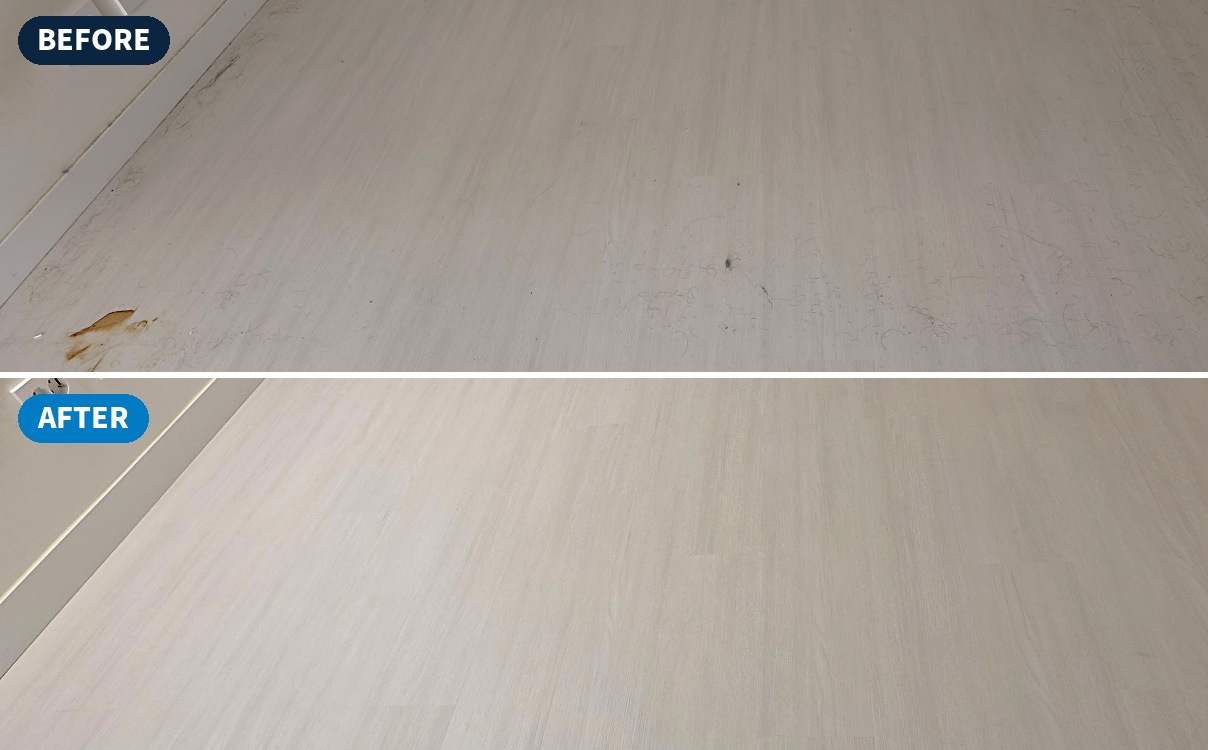
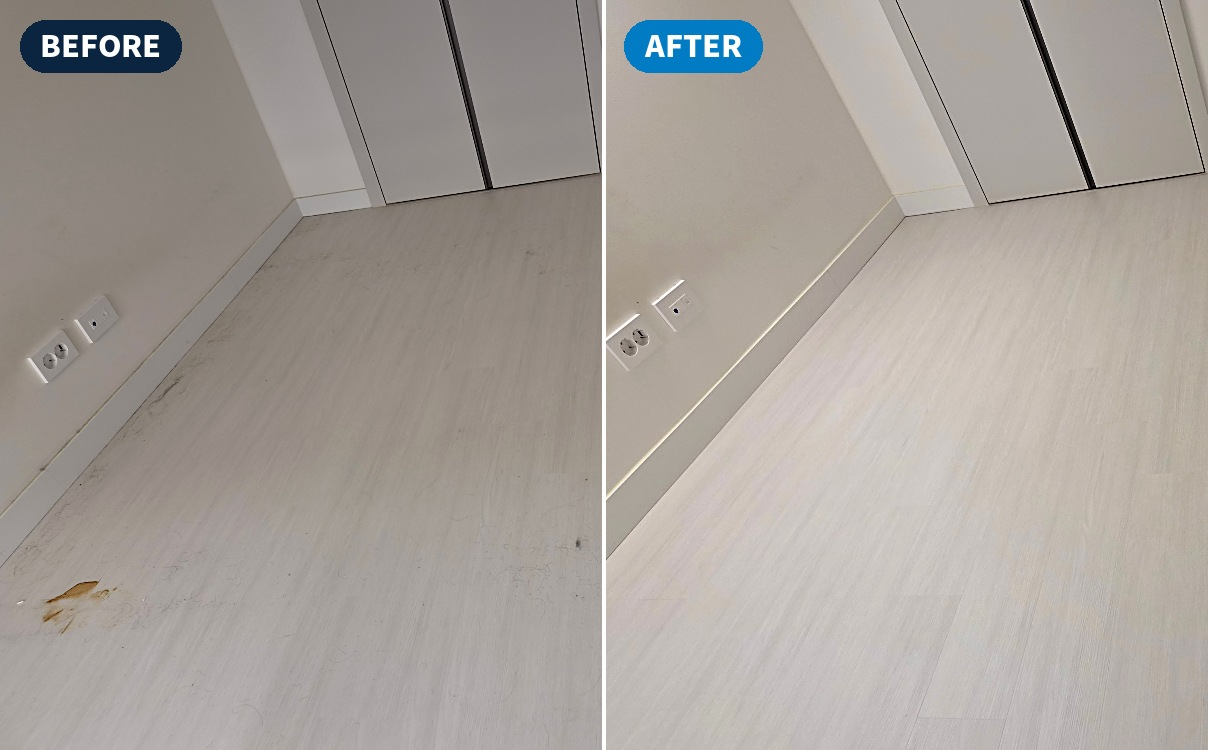
방 바닥 전체 사진을 좌우 양식(넓은 구도)으로 교체
Claude-Session: https://claude.ai/code/session_01RMtuDgf6zyg7BwXGJ8nFNg

diff --git a/portfolio.html b/portfolio.html
@@ -31,7 +31,7 @@
   <nav class="mnav" id="mnav" aria-label="모바일 메뉴"><a href="service.html">서비스</a><a href="portfolio.html" class="on" aria-current="page">시공사례</a><a href="price.html">요금안내</a><a href="about.html">회사소개</a><a href="contact.html">문의</a><a href="location.html">서비스 지역</a><a href="notice.html">공지사항</a><a href="https://blog.naver.com/jungdoclean" target="_blank" rel="noopener">블로그</a></nav>
 </header>
 <main><section class="phero"><div class="wrap"><span class="eyebrow">REAL CASES</span><h1>말보다 사진으로 보여드립니다</h1><p class="lead">정도클린이 직접 작업한 실제 현장의 청소 전 · 후 모습입니다.</p><div class="anchors" role="group" aria-label="공간별 보기"><button class="f-tab" data-filter="all" aria-pressed="true">전체 52</button><button class="f-tab" data-filter="bath" aria-pressed="false">욕실 32</button><button class="f-tab" data-filter="kitchen" aria-pressed="false">주방 7</button><button class="f-tab" data-filter="fridge" aria-pressed="false">냉장고 3</button><button class="f-tab" data-filter="balcony" aria-pressed="false">베란다 1</button><button class="f-tab" data-filter="floor" aria-pressed="false">바닥 3</button><button class="f-tab" data-filter="window" aria-pressed="false">창틀 3</button><button class="f-tab" data-filter="cabinet" aria-pressed="false">수납장 1</button><button class="f-tab" data-filter="laundry" aria-pressed="false">세탁기 2</button></div></div></section>
-<section class="sec"><div class="wrap"><div class="pf-grid"><article class="pf" data-cat="floor"><button type="button" data-zoom="방 바닥 전체 · 머리카락 · 먼지 · 오염 제거" aria-label="방 바닥 전체 크게 보기"><img src="cases/case-55-room-floor-full.jpg?v=261111b" alt="방 바닥 전체 청소 전후 비교" width="1208" height="750" loading="lazy"></button><div class="bd"><div><h3>방 바닥 전체</h3><p>머리카락 · 먼지 · 오염 제거</p></div><span class="tagpill">바닥</span></div></article><article class="pf" data-cat="floor"><button type="button" data-zoom="방 바닥 얼룩 · 갈색 얼룩 · 머리카락 · 먼지 제거" aria-label="방 바닥 얼룩 크게 보기"><img src="cases/case-54-floor-detail.jpg?v=261111" alt="방 바닥 얼룩 청소 전후 비교" width="1208" height="750" loading="lazy"></button><div class="bd"><div><h3>방 바닥 얼룩</h3><p>갈색 얼룩 · 머리카락 · 먼지 제거</p></div><span class="tagpill">바닥</span></div></article><article class="pf" data-cat="bath"><button type="button" data-zoom="샤워부스 배수구 · 배수구 안쪽 · 검은 때 · 줄눈 얼룩 제거" aria-label="샤워부스 배수구 크게 보기"><img src="cases/case-47-drain-hair.jpg?v=261108b" alt="샤워부스 배수구 청소 전후 비교" width="1208" height="750" loading="lazy"></button><div class="bd"><div><h3>샤워부스 배수구</h3><p>배수구 안쪽 · 검은 때 · 줄눈 얼룩 제거</p></div><span class="tagpill">욕실</span></div></article><article class="pf" data-cat="bath"><button type="button" data-zoom="변기 안쪽 · 누런 물때 제거" aria-label="변기 안쪽 크게 보기"><img src="cases/case-48-toilet-inner.jpg?v=261108b" alt="변기 안쪽 청소 전후 비교" width="1208" height="750" loading="lazy"></button><div class="bd"><div><h3>변기 안쪽</h3><p>누런 물때 제거</p></div><span class="tagpill">욕실</span></div></article><article class="pf" data-cat="kitchen"><button type="button" data-zoom="주방 수전 주변 · 수전 아래 · 카운터 모서리 얼룩 · 물때 제거" aria-label="주방 수전 주변 크게 보기"><img src="cases/case-49-kitchen-faucet-base.jpg?v=261108b" alt="주방 수전 주변 청소 전후 비교" width="1208" height="750" loading="lazy"></button><div class="bd"><div><h3>주방 수전 주변</h3><p>수전 아래 · 카운터 모서리 얼룩 · 물때 제거</p></div><span class="tagpill">주방</span></div></article><article class="pf" data-cat="bath"><button type="button" data-zoom="세면대 안쪽 · 노란 얼룩 · 머리카락 제거" aria-label="세면대 안쪽 크게 보기"><img src="cases/case-50-washbasin-inner.jpg?v=261108b" alt="세면대 안쪽 청소 전후 비교" width="1208" height="750" loading="lazy"></button><div class="bd"><div><h3>세면대 안쪽</h3><p>노란 얼룩 · 머리카락 제거</p></div><span class="tagpill">욕실</span></div></article><article class="pf" data-cat="bath"><button type="button" data-zoom="욕실 바닥 · 바닥 타일 · 줄눈 · 배수구 주변 때 제거" aria-label="욕실 바닥 크게 보기"><img src="cases/case-51-bath-floor-grout.jpg?v=261108b" alt="욕실 바닥 청소 전후 비교" width="1208" height="750" loading="lazy"></button><div class="bd"><div><h3>욕실 바닥</h3><p>바닥 타일 · 줄눈 · 배수구 주변 때 제거</p></div><span class="tagpill">욕실</span></div></article><article class="pf" data-cat="bath"><button type="button" data-zoom="샤워기 선반 · 수전 손잡이 · 선반 안쪽 · 손잡이 얼룩 제거" aria-label="샤워기 선반 · 수전 손잡이 크게 보기"><img src="cases/case-52-shower-shelf-handle.jpg?v=261108b" alt="샤워기 선반 · 수전 손잡이 청소 전후 비교" width="1208" height="750" loading="lazy"></button><div class="bd"><div><h3>샤워기 선반 · 수전 손잡이</h3><p>선반 안쪽 · 손잡이 얼룩 제거</p></div><span class="tagpill">욕실</span></div></article><article class="pf" data-cat="bath"><button type="button" data-zoom="코너 선반 · 유리 흐림 제거, 금속 부분 정리" aria-label="코너 선반 크게 보기"><img src="cases/case-53-corner-glass-shelf.jpg?v=261108b" alt="코너 선반 청소 전후 비교" width="1208" height="750" loading="lazy"></button><div class="bd"><div><h3>코너 선반</h3><p>유리 흐림 제거, 금속 부분 정리</p></div><span class="tagpill">욕실</span></div></article><article class="pf" data-cat="bath"><button type="button" data-zoom="환풍기 덮개 안쪽 · 먼지 · 얼룩 제거" aria-label="환풍기 덮개 안쪽 크게 보기"><img src="cases/case-46-vent-cover-inner.jpg?v=261106" alt="환풍기 덮개 안쪽 청소 전후 비교" width="1208" height="750" loading="lazy"></button><div class="bd"><div><h3>환풍기 덮개 안쪽</h3><p>먼지 · 얼룩 제거</p></div><span class="tagpill">욕실</span></div></article><article class="pf" data-cat="bath"><button type="button" data-zoom="환풍기 그릴 · 틈새 뭉친 먼지 제거" aria-label="환풍기 그릴 크게 보기"><img src="cases/case-45-vent-grille.jpg?v=261106" alt="환풍기 그릴 청소 전후 비교" width="1208" height="750" loading="lazy"></button><div class="bd"><div><h3>환풍기 그릴</h3><p>틈새 뭉친 먼지 제거</p></div><span class="tagpill">욕실</span></div></article><article class="pf" data-cat="bath"><button type="button" data-zoom="샤워부스 유리 · 물때 제거" aria-label="샤워부스 유리 크게 보기"><img src="cases/case-44-shower-glass-2.jpg?v=261105" alt="샤워부스 유리 물때 청소 전후 비교" width="1208" height="750" loading="lazy"></button><div class="bd"><div><h3>샤워부스 유리</h3><p>물때 제거</p></div><span class="tagpill">욕실</span></div></article><article class="pf" data-cat="kitchen"><button type="button" data-zoom="싱크대 · 물얼룩 · 스크래치 자국 정리" aria-label="싱크대 크게 보기"><img src="cases/case-43-kitchen-sink-4.jpg?v=261105" alt="싱크대 청소 전후 비교" width="1208" height="750" loading="lazy"></button><div class="bd"><div><h3>싱크대</h3><p>물얼룩 · 스크래치 자국 정리</p></div><span class="tagpill">주방</span></div></article><article class="pf" data-cat="laundry"><button type="button" data-zoom="세탁기 세제통 · 가루 잔여물 제거" aria-label="세탁기 세제통 크게 보기"><img src="cases/case-42-washer-detergent.jpg?v=261105" alt="세탁기 세제통 청소 전후 비교" width="1208" height="750" loading="lazy"></button><div class="bd"><div><h3>세탁기 세제통</h3><p>가루 잔여물 제거</p></div><span class="tagpill">세탁기</span></div></article><article class="pf" data-cat="bath"><button type="button" data-zoom="샤워선반 · 얼룩 · 물때 제거" aria-label="샤워선반 크게 보기"><img src="cases/case-41-shower-shelf.jpg?v=261105" alt="샤워선반 청소 전후 비교" width="1208" height="750" loading="lazy"></button><div class="bd"><div><h3>샤워선반</h3><p>얼룩 · 물때 제거</p></div><span class="tagpill">욕실</span></div></article><article class="pf" data-cat="bath"><button type="button" data-zoom="세면대 수전 · 물때 · 얼룩 제거" aria-label="세면대 수전 크게 보기"><img src="cases/case-40-faucet-2.jpg?v=261105" alt="세면대 수전 청소 전후 비교" width="1208" height="750" loading="lazy"></button><div class="bd"><div><h3>세면대 수전</h3><p>물때 · 얼룩 제거</p></div><span class="tagpill">욕실</span></div></article><article class="pf" data-cat="bath"><button type="button" data-zoom="샤워부스 배수구 · 머리카락 · 물때 · 찌든때 제거" aria-label="샤워부스 배수구 크게 보기"><img src="cases/case-01-shower-drain.jpg?v=261026" alt="샤워부스 배수구 청소 전후 비교" width="1208" height="750" loading="lazy"></button><div class="bd"><div><h3>샤워부스 배수구</h3><p>머리카락 · 물때 · 찌든때 제거</p></div><span class="tagpill">욕실</span></div></article><article class="pf" data-cat="bath"><button type="button" data-zoom="샤워부스 배수구 덮개 · 갈색 얼룩 · 찌든때 제거" aria-label="샤워부스 배수구 덮개 크게 보기"><img src="cases/case-30-shower-drain-3.jpg?v=261101" alt="샤워부스 배수구 덮개 청소 전후 비교" width="1208" height="750" loading="lazy"></button><div class="bd"><div><h3>샤워부스 배수구 덮개</h3><p>갈색 얼룩 · 찌든때 제거</p></div><span class="tagpill">욕실</span></div></article><article class="pf" data-cat="bath"><button type="button" data-zoom="세면대 아래 바닥 줄눈 · 줄눈 곰팡이 · 배수구 오염 제거" aria-label="세면대 아래 바닥 줄눈 크게 보기"><img src="cases/case-02-floor-grout.jpg?v=261026" alt="세면대 아래 바닥 줄눈 청소 전후 비교" width="1208" height="750" loading="lazy"></button><div class="bd"><div><h3>세면대 아래 바닥 줄눈</h3><p>줄눈 곰팡이 · 배수구 오염 제거</p></div><span class="tagpill">욕실</span></div></article><article class="pf" data-cat="bath"><button type="button" data-zoom="변기 주변 · 변기 황변 · 바닥 이물질 제거" aria-label="변기 주변 크게 보기"><img src="cases/case-03-toilet.jpg?v=261026" alt="변기 주변 청소 전후 비교" width="1208" height="750" loading="lazy"></button><div class="bd"><div><h3>변기 주변</h3><p>변기 황변 · 바닥 이물질 제거</p></div><span class="tagpill">욕실</span></div></article><article class="pf" data-cat="bath"><button type="button" data-zoom="욕실 전체 · 변기 · 세면대 · 바닥 줄눈" aria-label="욕실 전체 크게 보기"><img src="cases/case-04-bathroom.jpg?v=261026" alt="욕실 전체 청소 전후 비교" width="1208" height="750" loading="lazy"></button><div class="bd"><div><h3>욕실 전체</h3><p>변기 · 세면대 · 바닥 줄눈</p></div><span class="tagpill">욕실</span></div></article><article class="pf" data-cat="bath"><button type="button" data-zoom="욕실 세면대 · 도기 물때 · 수전 광택" aria-label="욕실 세면대 크게 보기"><img src="cases/case-05-washbasin.jpg?v=261026" alt="욕실 세면대 청소 전후 비교" width="1208" height="750" loading="lazy"></button><div class="bd"><div><h3>욕실 세면대</h3><p>도기 물때 · 수전 광택</p></div><span class="tagpill">욕실</span></div></article><article class="pf" data-cat="bath"><button type="button" data-zoom="욕실 코너선반 · 석회 물때 · 찌든때 제거" aria-label="욕실 코너선반 크게 보기"><img src="cases/case-10-corner-shelf.jpg?v=261026" alt="욕실 코너선반 청소 전후 비교" width="1208" height="750" loading="lazy"></button><div class="bd"><div><h3>욕실 코너선반</h3><p>석회 물때 · 찌든때 제거</p></div><span class="tagpill">욕실</span></div></article><article class="pf" data-cat="bath"><button type="button" data-zoom="샤워수전 · 비누받침 · 물때 · 석회 얼룩 제거, 크롬 광택 복원" aria-label="샤워수전 · 비누받침 크게 보기"><img src="cases/case-11-shower-fixture.jpg?v=261026" alt="샤워수전 · 비누받침 청소 전후 비교" width="1208" height="750" loading="lazy"></button><div class="bd"><div><h3>샤워수전 · 비누받침</h3><p>물때 · 석회 얼룩 제거, 크롬 광택 복원</p></div><span class="tagpill">욕실</span></div></article><article class="pf" data-cat="bath"><button type="button" data-zoom="욕실 세면대 상판 · 석회 물때 · 얼룩 제거" aria-label="욕실 세면대 상판 크게 보기"><img src="cases/case-13-vanity-top.jpg?v=261026" alt="욕실 세면대 상판 청소 전후 비교" width="1208" height="750" loading="lazy"></button><div class="bd"><div><h3>욕실 세면대 상판</h3><p>석회 물때 · 얼룩 제거</p></div><span class="tagpill">욕실</span></div></article><article class="pf" data-cat="bath"><button type="button" data-zoom="샤워부 바닥 줄눈 · 줄눈 곰팡이 · 찌든때 제거" aria-label="샤워부 바닥 줄눈 크게 보기"><img src="cases/case-14-shower-floor.jpg?v=261026" alt="샤워부 바닥 줄눈 청소 전후 비교" width="1208" height="750" loading="lazy"></button><div class="bd"><div><h3>샤워부 바닥 줄눈</h3><p>줄눈 곰팡이 · 찌든때 제거</p></div><span class="tagpill">욕실</span></div></article><article class="pf" data-cat="bath"><button type="button" data-zoom="욕실 유리 코너선반 · 물때 · 메탈 얼룩 제거" aria-label="욕실 유리 코너선반 크게 보기"><img src="cases/case-15-glass-shelf.jpg?v=261026" alt="욕실 유리 코너선반 청소 전후 비교" width="1208" height="750" loading="lazy"></button><div class="bd"><div><h3>욕실 유리 코너선반</h3><p>물때 · 메탈 얼룩 제거</p></div><span class="tagpill">욕실</span></div></article><article class="pf" data-cat="bath"><button type="button" data-zoom="샤워부스 유리문 · 석회 물때 · 찌든때 제거" aria-label="샤워부스 유리문 크게 보기"><img src="cases/case-16-shower-glass.jpg?v=261026" alt="샤워부스 유리문 청소 전후 비교" width="1208" height="750" loading="lazy"></button><div class="bd"><div><h3>샤워부스 유리문</h3><p>석회 물때 · 찌든때 제거</p></div><span class="tagpill">욕실</span></div></article><article class="pf" data-cat="bath"><button type="button" data-zoom="욕실 거울장 유리 · 물방울 자국 · 물때 제거" aria-label="욕실 거울장 유리 크게 보기"><img src="cases/case-22-mirror-cabinet.jpg?v=261028" alt="욕실 거울장 유리 청소 전후 비교" width="1208" height="750" loading="lazy"></button><div class="bd"><div><h3>욕실 거울장 유리</h3><p>물방울 자국 · 물때 제거</p></div><span class="tagpill">욕실</span></div></article><article class="pf" data-cat="bath"><button type="button" data-zoom="샤워부스 유리문 · 내부 · 뿌연 물때 제거, 유리 투명도 복원" aria-label="샤워부스 유리문 · 내부 크게 보기"><img src="cases/case-23-shower-glass-door.jpg?v=261028" alt="샤워부스 유리문 · 내부 청소 전후 비교" width="1208" height="750" loading="lazy"></button><div class="bd"><div><h3>샤워부스 유리문 · 내부</h3><p>뿌연 물때 제거, 유리 투명도 복원</p></div><span class="tagpill">욕실</span></div></article><article class="pf" data-cat="bath"><button type="button" data-zoom="샤워수전 · 손잡이 · 물때 · 얼룩 제거, 크롬 광택 복원" aria-label="샤워수전 · 손잡이 크게 보기"><img src="cases/case-24-shower-faucet-handle.jpg?v=261028" alt="샤워수전 · 손잡이 청소 전후 비교" width="1208" height="750" loading="lazy"></button><div class="bd"><div><h3>샤워수전 · 손잡이</h3><p>물때 · 얼룩 제거, 크롬 광택 복원</p></div><span class="tagpill">욕실</span></div></article><article class="pf" data-cat="bath"><button type="button" data-zoom="세면대 수전 · 배수구 · 물때 · 얼룩 제거, 광택 복원" aria-label="세면대 수전 · 배수구 크게 보기"><img src="cases/case-32-faucet.jpg?v=261104" alt="세면대 수전 · 배수구 청소 전후 비교" width="1208" height="750" loading="lazy"></button><div class="bd"><div><h3>세면대 수전 · 배수구</h3><p>물때 · 얼룩 제거, 광택 복원</p></div><span class="tagpill">욕실</span></div></article><article class="pf" data-cat="bath"><button type="button" data-zoom="샤워수전 · 레일 · 물때 · 얼룩 제거, 광택 복원" aria-label="샤워수전 · 레일 크게 보기"><img src="cases/case-33-shower-rail.jpg?v=261104" alt="샤워수전 · 레일 청소 전후 비교" width="1208" height="750" loading="lazy"></button><div class="bd"><div><h3>샤워수전 · 레일</h3><p>물때 · 얼룩 제거, 광택 복원</p></div><span class="tagpill">욕실</span></div></article><article class="pf" data-cat="bath"><button type="button" data-zoom="욕실 배수구 · 바닥 · 머리카락 · 줄눈 · 물때 제거" aria-label="욕실 배수구 · 바닥 크게 보기"><img src="cases/case-39-bath-drain-floor.jpg?v=261105" alt="욕실 배수구 바닥 청소 전후 비교" width="1208" height="750" loading="lazy"></button><div class="bd"><div><h3>욕실 배수구 · 바닥</h3><p>머리카락 · 줄눈 · 물때 제거</p></div><span class="tagpill">욕실</span></div></article><article class="pf" data-cat="bath"><button type="button" data-zoom="샤워부스 구석 타일 · 배수구 · 줄눈 누런 때 · 물때 제거" aria-label="샤워부스 구석 타일 · 배수구 크게 보기"><img src="cases/case-27-shower-corner-tile.jpg?v=261029" alt="샤워부스 구석 타일 · 배수구 청소 전후 비교" width="1208" height="750" loading="lazy"></button><div class="bd"><div><h3>샤워부스 구석 타일 · 배수구</h3><p>줄눈 누런 때 · 물때 제거</p></div><span class="tagpill">욕실</span></div></article><article class="pf" data-cat="bath"><button type="button" data-zoom="환풍구 덮개 · 그릴 · 곰팡이 · 먼지 제거" aria-label="환풍구 덮개 · 그릴 크게 보기"><img src="cases/case-20-vent-cover.jpg?v=261028" alt="환풍구 덮개 · 그릴 청소 전후 비교" width="1208" height="750" loading="lazy"></button><div class="bd"><div><h3>환풍구 덮개 · 그릴</h3><p>곰팡이 · 먼지 제거</p></div><span class="tagpill">욕실</span></div></article><article class="pf" data-cat="bath"><button type="button" data-zoom="환풍구 내부 · 팬 · 곰팡이 · 찌든 먼지 제거" aria-label="환풍구 내부 · 팬 크게 보기"><img src="cases/case-21-vent-fan.jpg?v=261028" alt="환풍구 내부 · 팬 청소 전후 비교" width="1208" height="750" loading="lazy"></button><div class="bd"><div><h3>환풍구 내부 · 팬</h3><p>곰팡이 · 찌든 먼지 제거</p></div><span class="tagpill">욕실</span></div></article><article class="pf" data-cat="kitchen"><button type="button" data-zoom="주방 수전 · 벽면 · 벽면 물때 · 검은 얼룩 제거" aria-label="주방 수전 · 벽면 크게 보기"><img src="cases/case-25-kitchen-faucet-wall.jpg?v=261028" alt="주방 수전 · 벽면 청소 전후 비교" width="1208" height="750" loading="lazy"></button><div class="bd"><div><h3>주방 수전 · 벽면</h3><p>벽면 물때 · 검은 얼룩 제거</p></div><span class="tagpill">주방</span></div></article><article class="pf" data-cat="kitchen"><button type="button" data-zoom="싱크볼 · 수전 · 물때 · 얼룩 제거, 스테인리스 광택 복원" aria-label="싱크볼 · 수전 크게 보기"><img src="cases/case-26-kitchen-sink-lizens.jpg?v=261028" alt="싱크볼 · 수전 청소 전후 비교" width="1208" height="750" loading="lazy"></button><div class="bd"><div><h3>싱크볼 · 수전</h3><p>물때 · 얼룩 제거, 스테인리스 광택 복원</p></div><span class="tagpill">주방</span></div></article><article class="pf" data-cat="kitchen"><button type="button" data-zoom="스테인리스 싱크볼 · 물자국 · 얼룩 제거, 광택 복원" aria-label="스테인리스 싱크볼 크게 보기"><img src="cases/case-12-kitchen-sink-2.jpg?v=261026" alt="스테인리스 싱크볼 청소 전후 비교" width="1208" height="750" loading="lazy"></button><div class="bd"><div><h3>스테인리스 싱크볼</h3><p>물자국 · 얼룩 제거, 광택 복원</p></div><span class="tagpill">주방</span></div></article><article class="pf" data-cat="kitchen"><button type="button" data-zoom="주방 싱크볼 · 배수구 · 음식물 찌꺼기 · 배수구 오염 제거" aria-label="주방 싱크볼 · 배수구 크게 보기"><img src="cases/case-17-kitchen-sink-3.jpg?v=261026" alt="주방 싱크볼 · 배수구 청소 전후 비교" width="1208" height="750" loading="lazy"></button><div class="bd"><div><h3>주방 싱크볼 · 배수구</h3><p>음식물 찌꺼기 · 배수구 오염 제거</p></div><span class="tagpill">주방</span></div></article><article class="pf" data-cat="kitchen"><button type="button" data-zoom="주방 싱크대 상판 · 싱크볼 · 상판 모서리 녹얼룩 · 싱크볼 얼룩 제거" aria-label="주방 싱크대 상판 · 싱크볼 크게 보기"><img src="cases/case-18-kitchen-sink-top.jpg?v=261026" alt="주방 싱크대 상판 · 싱크볼 청소 전후 비교" width="1208" height="750" loading="lazy"></button><div class="bd"><div><h3>주방 싱크대 상판 · 싱크볼</h3><p>상판 모서리 녹얼룩 · 싱크볼 얼룩 제거</p></div><span class="tagpill">주방</span></div></article><article class="pf" data-cat="floor"><button type="button" data-zoom="바닥 타일 · 발자국 · 검은 얼룩 제거" aria-label="바닥 타일 크게 보기"><img src="cases/case-28-floor-tile.jpg?v=261029" alt="바닥 타일 청소 전후 비교" width="1208" height="750" loading="lazy"></button><div class="bd"><div><h3>바닥 타일</h3><p>발자국 · 검은 얼룩 제거</p></div><span class="tagpill">바닥</span></div></article><article class="pf" data-cat="fridge"><button type="button" data-zoom="냉장고 내부 · 선반 · 야채칸 얼룩 제거" aria-label="냉장고 내부 크게 보기"><img src="cases/case-07-fridge.jpg?v=261026" alt="냉장고 내부 청소 전후 비교" width="1208" height="750" loading="lazy"></button><div class="bd"><div><h3>냉장고 내부</h3><p>선반 · 야채칸 얼룩 제거</p></div><span class="tagpill">냉장고</span></div></article><article class="pf" data-cat="fridge"><button type="button" data-zoom="냉장고 내부 · 서랍 · 얼룩 · 오염 제거" aria-label="냉장고 내부 · 서랍 크게 보기"><img src="cases/case-36-fridge-drawer.jpg?v=261104" alt="냉장고 내부 · 서랍 청소 전후 비교" width="1208" height="750" loading="lazy"></button><div class="bd"><div><h3>냉장고 내부 · 서랍</h3><p>얼룩 · 오염 제거</p></div><span class="tagpill">냉장고</span></div></article><article class="pf" data-cat="fridge"><button type="button" data-zoom="냉장고 하단 · 환풍구 · 먼지 · 흙 제거, 걸레받이까지" aria-label="냉장고 하단 · 환풍구 크게 보기"><img src="cases/case-38-fridge-bottom.jpg?v=261105" alt="냉장고 하단 환풍구 청소 전후 비교" width="1208" height="750" loading="lazy"></button><div class="bd"><div><h3>냉장고 하단 · 환풍구</h3><p>먼지 · 흙 제거, 걸레받이까지</p></div><span class="tagpill">냉장고</span></div></article><article class="pf" data-cat="balcony"><button type="button" data-zoom="베란다 통로 · 바닥 얼룩 · 먼지 제거" aria-label="베란다 통로 크게 보기"><img src="cases/case-09-balcony-hall.jpg?v=261026" alt="베란다 통로 청소 전후 비교" width="1208" height="750" loading="lazy"></button><div class="bd"><div><h3>베란다 통로</h3><p>바닥 얼룩 · 먼지 제거</p></div><span class="tagpill">베란다</span></div></article><article class="pf" data-cat="window"><button type="button" data-zoom="창문 레일 · 먼지 · 찌든때 제거, 레일 깨끗이" aria-label="창문 레일 크게 보기"><img src="cases/case-19-window-rail.jpg?v=261026" alt="창문 레일 청소 전후 비교" width="1208" height="750" loading="lazy"></button><div class="bd"><div><h3>창문 레일</h3><p>먼지 · 찌든때 제거, 레일 깨끗이</p></div><span class="tagpill">창틀</span></div></article><article class="pf" data-cat="window"><button type="button" data-zoom="샷시 창틀 · 틈새 · 먼지 · 오염 제거" aria-label="샷시 창틀 · 틈새 크게 보기"><img src="cases/case-34-window-frame.jpg?v=261104" alt="샷시 창틀 · 틈새 청소 전후 비교" width="1208" height="750" loading="lazy"></button><div class="bd"><div><h3>샷시 창틀 · 틈새</h3><p>먼지 · 오염 제거</p></div><span class="tagpill">창틀</span></div></article><article class="pf" data-cat="window"><button type="button" data-zoom="방충망 창틀 레일 · 먼지 · 물때 제거" aria-label="방충망 창틀 레일 크게 보기"><img src="cases/case-35-window-rail.jpg?v=261104" alt="방충망 창틀 레일 청소 전후 비교" width="1208" height="750" loading="lazy"></button><div class="bd"><div><h3>방충망 창틀 레일</h3><p>먼지 · 물때 제거</p></div><span class="tagpill">창틀</span></div></article><article class="pf" data-cat="cabinet"><button type="button" data-zoom="수납장 선반 · 자국 · 얼룩 제거" aria-label="수납장 선반 크게 보기"><img src="cases/case-31-shelf-residue.jpg?v=261101" alt="수납장 선반 청소 전후 비교" width="1208" height="750" loading="lazy"></button><div class="bd"><div><h3>수납장 선반</h3><p>자국 · 얼룩 제거</p></div><span class="tagpill">수납장</span></div></article><article class="pf" data-cat="laundry"><button type="button" data-zoom="세탁기 세제함 · 찌든때 · 곰팡이 제거" aria-label="세탁기 세제함 크게 보기"><img src="cases/case-37-washer-drawer.jpg?v=261104" alt="세탁기 세제함 청소 전후 비교" width="1208" height="750" loading="lazy"></button><div class="bd"><div><h3>세탁기 세제함</h3><p>찌든때 · 곰팡이 제거</p></div><span class="tagpill">세탁기</span></div></article></div><p class="pf-note">사진을 누르면 크게 볼 수 있습니다</p><div class="pf-cta"><p>이 사진처럼, 우리 집도 깨끗하게</p><div class="acts"><a class="btn btn-primary tel" href="tel:010-8209-6615">전화로 견적 받기</a><a class="btn btn-ghost sms" href="sms:010-8209-6615">문자로 사진 보내기</a><a class="btn btn-ghost" href="https://blog.naver.com/jungdoclean" target="_blank" rel="noopener">블로그에서 더 보기</a></div></div></div></section>
+<section class="sec"><div class="wrap"><div class="pf-grid"><article class="pf" data-cat="floor"><button type="button" data-zoom="방 바닥 전체 · 머리카락 · 먼지 · 오염 제거" aria-label="방 바닥 전체 크게 보기"><img src="cases/case-55-room-floor-full.jpg?v=261111c" alt="방 바닥 전체 청소 전후 비교" width="1208" height="750" loading="lazy"></button><div class="bd"><div><h3>방 바닥 전체</h3><p>머리카락 · 먼지 · 오염 제거</p></div><span class="tagpill">바닥</span></div></article><article class="pf" data-cat="floor"><button type="button" data-zoom="방 바닥 얼룩 · 갈색 얼룩 · 머리카락 · 먼지 제거" aria-label="방 바닥 얼룩 크게 보기"><img src="cases/case-54-floor-detail.jpg?v=261111" alt="방 바닥 얼룩 청소 전후 비교" width="1208" height="750" loading="lazy"></button><div class="bd"><div><h3>방 바닥 얼룩</h3><p>갈색 얼룩 · 머리카락 · 먼지 제거</p></div><span class="tagpill">바닥</span></div></article><article class="pf" data-cat="bath"><button type="button" data-zoom="샤워부스 배수구 · 배수구 안쪽 · 검은 때 · 줄눈 얼룩 제거" aria-label="샤워부스 배수구 크게 보기"><img src="cases/case-47-drain-hair.jpg?v=261108b" alt="샤워부스 배수구 청소 전후 비교" width="1208" height="750" loading="lazy"></button><div class="bd"><div><h3>샤워부스 배수구</h3><p>배수구 안쪽 · 검은 때 · 줄눈 얼룩 제거</p></div><span class="tagpill">욕실</span></div></article><article class="pf" data-cat="bath"><button type="button" data-zoom="변기 안쪽 · 누런 물때 제거" aria-label="변기 안쪽 크게 보기"><img src="cases/case-48-toilet-inner.jpg?v=261108b" alt="변기 안쪽 청소 전후 비교" width="1208" height="750" loading="lazy"></button><div class="bd"><div><h3>변기 안쪽</h3><p>누런 물때 제거</p></div><span class="tagpill">욕실</span></div></article><article class="pf" data-cat="kitchen"><button type="button" data-zoom="주방 수전 주변 · 수전 아래 · 카운터 모서리 얼룩 · 물때 제거" aria-label="주방 수전 주변 크게 보기"><img src="cases/case-49-kitchen-faucet-base.jpg?v=261108b" alt="주방 수전 주변 청소 전후 비교" width="1208" height="750" loading="lazy"></button><div class="bd"><div><h3>주방 수전 주변</h3><p>수전 아래 · 카운터 모서리 얼룩 · 물때 제거</p></div><span class="tagpill">주방</span></div></article><article class="pf" data-cat="bath"><button type="button" data-zoom="세면대 안쪽 · 노란 얼룩 · 머리카락 제거" aria-label="세면대 안쪽 크게 보기"><img src="cases/case-50-washbasin-inner.jpg?v=261108b" alt="세면대 안쪽 청소 전후 비교" width="1208" height="750" loading="lazy"></button><div class="bd"><div><h3>세면대 안쪽</h3><p>노란 얼룩 · 머리카락 제거</p></div><span class="tagpill">욕실</span></div></article><article class="pf" data-cat="bath"><button type="button" data-zoom="욕실 바닥 · 바닥 타일 · 줄눈 · 배수구 주변 때 제거" aria-label="욕실 바닥 크게 보기"><img src="cases/case-51-bath-floor-grout.jpg?v=261108b" alt="욕실 바닥 청소 전후 비교" width="1208" height="750" loading="lazy"></button><div class="bd"><div><h3>욕실 바닥</h3><p>바닥 타일 · 줄눈 · 배수구 주변 때 제거</p></div><span class="tagpill">욕실</span></div></article><article class="pf" data-cat="bath"><button type="button" data-zoom="샤워기 선반 · 수전 손잡이 · 선반 안쪽 · 손잡이 얼룩 제거" aria-label="샤워기 선반 · 수전 손잡이 크게 보기"><img src="cases/case-52-shower-shelf-handle.jpg?v=261108b" alt="샤워기 선반 · 수전 손잡이 청소 전후 비교" width="1208" height="750" loading="lazy"></button><div class="bd"><div><h3>샤워기 선반 · 수전 손잡이</h3><p>선반 안쪽 · 손잡이 얼룩 제거</p></div><span class="tagpill">욕실</span></div></article><article class="pf" data-cat="bath"><button type="button" data-zoom="코너 선반 · 유리 흐림 제거, 금속 부분 정리" aria-label="코너 선반 크게 보기"><img src="cases/case-53-corner-glass-shelf.jpg?v=261108b" alt="코너 선반 청소 전후 비교" width="1208" height="750" loading="lazy"></button><div class="bd"><div><h3>코너 선반</h3><p>유리 흐림 제거, 금속 부분 정리</p></div><span class="tagpill">욕실</span></div></article><article class="pf" data-cat="bath"><button type="button" data-zoom="환풍기 덮개 안쪽 · 먼지 · 얼룩 제거" aria-label="환풍기 덮개 안쪽 크게 보기"><img src="cases/case-46-vent-cover-inner.jpg?v=261106" alt="환풍기 덮개 안쪽 청소 전후 비교" width="1208" height="750" loading="lazy"></button><div class="bd"><div><h3>환풍기 덮개 안쪽</h3><p>먼지 · 얼룩 제거</p></div><span class="tagpill">욕실</span></div></article><article class="pf" data-cat="bath"><button type="button" data-zoom="환풍기 그릴 · 틈새 뭉친 먼지 제거" aria-label="환풍기 그릴 크게 보기"><img src="cases/case-45-vent-grille.jpg?v=261106" alt="환풍기 그릴 청소 전후 비교" width="1208" height="750" loading="lazy"></button><div class="bd"><div><h3>환풍기 그릴</h3><p>틈새 뭉친 먼지 제거</p></div><span class="tagpill">욕실</span></div></article><article class="pf" data-cat="bath"><button type="button" data-zoom="샤워부스 유리 · 물때 제거" aria-label="샤워부스 유리 크게 보기"><img src="cases/case-44-shower-glass-2.jpg?v=261105" alt="샤워부스 유리 물때 청소 전후 비교" width="1208" height="750" loading="lazy"></button><div class="bd"><div><h3>샤워부스 유리</h3><p>물때 제거</p></div><span class="tagpill">욕실</span></div></article><article class="pf" data-cat="kitchen"><button type="button" data-zoom="싱크대 · 물얼룩 · 스크래치 자국 정리" aria-label="싱크대 크게 보기"><img src="cases/case-43-kitchen-sink-4.jpg?v=261105" alt="싱크대 청소 전후 비교" width="1208" height="750" loading="lazy"></button><div class="bd"><div><h3>싱크대</h3><p>물얼룩 · 스크래치 자국 정리</p></div><span class="tagpill">주방</span></div></article><article class="pf" data-cat="laundry"><button type="button" data-zoom="세탁기 세제통 · 가루 잔여물 제거" aria-label="세탁기 세제통 크게 보기"><img src="cases/case-42-washer-detergent.jpg?v=261105" alt="세탁기 세제통 청소 전후 비교" width="1208" height="750" loading="lazy"></button><div class="bd"><div><h3>세탁기 세제통</h3><p>가루 잔여물 제거</p></div><span class="tagpill">세탁기</span></div></article><article class="pf" data-cat="bath"><button type="button" data-zoom="샤워선반 · 얼룩 · 물때 제거" aria-label="샤워선반 크게 보기"><img src="cases/case-41-shower-shelf.jpg?v=261105" alt="샤워선반 청소 전후 비교" width="1208" height="750" loading="lazy"></button><div class="bd"><div><h3>샤워선반</h3><p>얼룩 · 물때 제거</p></div><span class="tagpill">욕실</span></div></article><article class="pf" data-cat="bath"><button type="button" data-zoom="세면대 수전 · 물때 · 얼룩 제거" aria-label="세면대 수전 크게 보기"><img src="cases/case-40-faucet-2.jpg?v=261105" alt="세면대 수전 청소 전후 비교" width="1208" height="750" loading="lazy"></button><div class="bd"><div><h3>세면대 수전</h3><p>물때 · 얼룩 제거</p></div><span class="tagpill">욕실</span></div></article><article class="pf" data-cat="bath"><button type="button" data-zoom="샤워부스 배수구 · 머리카락 · 물때 · 찌든때 제거" aria-label="샤워부스 배수구 크게 보기"><img src="cases/case-01-shower-drain.jpg?v=261026" alt="샤워부스 배수구 청소 전후 비교" width="1208" height="750" loading="lazy"></button><div class="bd"><div><h3>샤워부스 배수구</h3><p>머리카락 · 물때 · 찌든때 제거</p></div><span class="tagpill">욕실</span></div></article><article class="pf" data-cat="bath"><button type="button" data-zoom="샤워부스 배수구 덮개 · 갈색 얼룩 · 찌든때 제거" aria-label="샤워부스 배수구 덮개 크게 보기"><img src="cases/case-30-shower-drain-3.jpg?v=261101" alt="샤워부스 배수구 덮개 청소 전후 비교" width="1208" height="750" loading="lazy"></button><div class="bd"><div><h3>샤워부스 배수구 덮개</h3><p>갈색 얼룩 · 찌든때 제거</p></div><span class="tagpill">욕실</span></div></article><article class="pf" data-cat="bath"><button type="button" data-zoom="세면대 아래 바닥 줄눈 · 줄눈 곰팡이 · 배수구 오염 제거" aria-label="세면대 아래 바닥 줄눈 크게 보기"><img src="cases/case-02-floor-grout.jpg?v=261026" alt="세면대 아래 바닥 줄눈 청소 전후 비교" width="1208" height="750" loading="lazy"></button><div class="bd"><div><h3>세면대 아래 바닥 줄눈</h3><p>줄눈 곰팡이 · 배수구 오염 제거</p></div><span class="tagpill">욕실</span></div></article><article class="pf" data-cat="bath"><button type="button" data-zoom="변기 주변 · 변기 황변 · 바닥 이물질 제거" aria-label="변기 주변 크게 보기"><img src="cases/case-03-toilet.jpg?v=261026" alt="변기 주변 청소 전후 비교" width="1208" height="750" loading="lazy"></button><div class="bd"><div><h3>변기 주변</h3><p>변기 황변 · 바닥 이물질 제거</p></div><span class="tagpill">욕실</span></div></article><article class="pf" data-cat="bath"><button type="button" data-zoom="욕실 전체 · 변기 · 세면대 · 바닥 줄눈" aria-label="욕실 전체 크게 보기"><img src="cases/case-04-bathroom.jpg?v=261026" alt="욕실 전체 청소 전후 비교" width="1208" height="750" loading="lazy"></button><div class="bd"><div><h3>욕실 전체</h3><p>변기 · 세면대 · 바닥 줄눈</p></div><span class="tagpill">욕실</span></div></article><article class="pf" data-cat="bath"><button type="button" data-zoom="욕실 세면대 · 도기 물때 · 수전 광택" aria-label="욕실 세면대 크게 보기"><img src="cases/case-05-washbasin.jpg?v=261026" alt="욕실 세면대 청소 전후 비교" width="1208" height="750" loading="lazy"></button><div class="bd"><div><h3>욕실 세면대</h3><p>도기 물때 · 수전 광택</p></div><span class="tagpill">욕실</span></div></article><article class="pf" data-cat="bath"><button type="button" data-zoom="욕실 코너선반 · 석회 물때 · 찌든때 제거" aria-label="욕실 코너선반 크게 보기"><img src="cases/case-10-corner-shelf.jpg?v=261026" alt="욕실 코너선반 청소 전후 비교" width="1208" height="750" loading="lazy"></button><div class="bd"><div><h3>욕실 코너선반</h3><p>석회 물때 · 찌든때 제거</p></div><span class="tagpill">욕실</span></div></article><article class="pf" data-cat="bath"><button type="button" data-zoom="샤워수전 · 비누받침 · 물때 · 석회 얼룩 제거, 크롬 광택 복원" aria-label="샤워수전 · 비누받침 크게 보기"><img src="cases/case-11-shower-fixture.jpg?v=261026" alt="샤워수전 · 비누받침 청소 전후 비교" width="1208" height="750" loading="lazy"></button><div class="bd"><div><h3>샤워수전 · 비누받침</h3><p>물때 · 석회 얼룩 제거, 크롬 광택 복원</p></div><span class="tagpill">욕실</span></div></article><article class="pf" data-cat="bath"><button type="button" data-zoom="욕실 세면대 상판 · 석회 물때 · 얼룩 제거" aria-label="욕실 세면대 상판 크게 보기"><img src="cases/case-13-vanity-top.jpg?v=261026" alt="욕실 세면대 상판 청소 전후 비교" width="1208" height="750" loading="lazy"></button><div class="bd"><div><h3>욕실 세면대 상판</h3><p>석회 물때 · 얼룩 제거</p></div><span class="tagpill">욕실</span></div></article><article class="pf" data-cat="bath"><button type="button" data-zoom="샤워부 바닥 줄눈 · 줄눈 곰팡이 · 찌든때 제거" aria-label="샤워부 바닥 줄눈 크게 보기"><img src="cases/case-14-shower-floor.jpg?v=261026" alt="샤워부 바닥 줄눈 청소 전후 비교" width="1208" height="750" loading="lazy"></button><div class="bd"><div><h3>샤워부 바닥 줄눈</h3><p>줄눈 곰팡이 · 찌든때 제거</p></div><span class="tagpill">욕실</span></div></article><article class="pf" data-cat="bath"><button type="button" data-zoom="욕실 유리 코너선반 · 물때 · 메탈 얼룩 제거" aria-label="욕실 유리 코너선반 크게 보기"><img src="cases/case-15-glass-shelf.jpg?v=261026" alt="욕실 유리 코너선반 청소 전후 비교" width="1208" height="750" loading="lazy"></button><div class="bd"><div><h3>욕실 유리 코너선반</h3><p>물때 · 메탈 얼룩 제거</p></div><span class="tagpill">욕실</span></div></article><article class="pf" data-cat="bath"><button type="button" data-zoom="샤워부스 유리문 · 석회 물때 · 찌든때 제거" aria-label="샤워부스 유리문 크게 보기"><img src="cases/case-16-shower-glass.jpg?v=261026" alt="샤워부스 유리문 청소 전후 비교" width="1208" height="750" loading="lazy"></button><div class="bd"><div><h3>샤워부스 유리문</h3><p>석회 물때 · 찌든때 제거</p></div><span class="tagpill">욕실</span></div></article><article class="pf" data-cat="bath"><button type="button" data-zoom="욕실 거울장 유리 · 물방울 자국 · 물때 제거" aria-label="욕실 거울장 유리 크게 보기"><img src="cases/case-22-mirror-cabinet.jpg?v=261028" alt="욕실 거울장 유리 청소 전후 비교" width="1208" height="750" loading="lazy"></button><div class="bd"><div><h3>욕실 거울장 유리</h3><p>물방울 자국 · 물때 제거</p></div><span class="tagpill">욕실</span></div></article><article class="pf" data-cat="bath"><button type="button" data-zoom="샤워부스 유리문 · 내부 · 뿌연 물때 제거, 유리 투명도 복원" aria-label="샤워부스 유리문 · 내부 크게 보기"><img src="cases/case-23-shower-glass-door.jpg?v=261028" alt="샤워부스 유리문 · 내부 청소 전후 비교" width="1208" height="750" loading="lazy"></button><div class="bd"><div><h3>샤워부스 유리문 · 내부</h3><p>뿌연 물때 제거, 유리 투명도 복원</p></div><span class="tagpill">욕실</span></div></article><article class="pf" data-cat="bath"><button type="button" data-zoom="샤워수전 · 손잡이 · 물때 · 얼룩 제거, 크롬 광택 복원" aria-label="샤워수전 · 손잡이 크게 보기"><img src="cases/case-24-shower-faucet-handle.jpg?v=261028" alt="샤워수전 · 손잡이 청소 전후 비교" width="1208" height="750" loading="lazy"></button><div class="bd"><div><h3>샤워수전 · 손잡이</h3><p>물때 · 얼룩 제거, 크롬 광택 복원</p></div><span class="tagpill">욕실</span></div></article><article class="pf" data-cat="bath"><button type="button" data-zoom="세면대 수전 · 배수구 · 물때 · 얼룩 제거, 광택 복원" aria-label="세면대 수전 · 배수구 크게 보기"><img src="cases/case-32-faucet.jpg?v=261104" alt="세면대 수전 · 배수구 청소 전후 비교" width="1208" height="750" loading="lazy"></button><div class="bd"><div><h3>세면대 수전 · 배수구</h3><p>물때 · 얼룩 제거, 광택 복원</p></div><span class="tagpill">욕실</span></div></article><article class="pf" data-cat="bath"><button type="button" data-zoom="샤워수전 · 레일 · 물때 · 얼룩 제거, 광택 복원" aria-label="샤워수전 · 레일 크게 보기"><img src="cases/case-33-shower-rail.jpg?v=261104" alt="샤워수전 · 레일 청소 전후 비교" width="1208" height="750" loading="lazy"></button><div class="bd"><div><h3>샤워수전 · 레일</h3><p>물때 · 얼룩 제거, 광택 복원</p></div><span class="tagpill">욕실</span></div></article><article class="pf" data-cat="bath"><button type="button" data-zoom="욕실 배수구 · 바닥 · 머리카락 · 줄눈 · 물때 제거" aria-label="욕실 배수구 · 바닥 크게 보기"><img src="cases/case-39-bath-drain-floor.jpg?v=261105" alt="욕실 배수구 바닥 청소 전후 비교" width="1208" height="750" loading="lazy"></button><div class="bd"><div><h3>욕실 배수구 · 바닥</h3><p>머리카락 · 줄눈 · 물때 제거</p></div><span class="tagpill">욕실</span></div></article><article class="pf" data-cat="bath"><button type="button" data-zoom="샤워부스 구석 타일 · 배수구 · 줄눈 누런 때 · 물때 제거" aria-label="샤워부스 구석 타일 · 배수구 크게 보기"><img src="cases/case-27-shower-corner-tile.jpg?v=261029" alt="샤워부스 구석 타일 · 배수구 청소 전후 비교" width="1208" height="750" loading="lazy"></button><div class="bd"><div><h3>샤워부스 구석 타일 · 배수구</h3><p>줄눈 누런 때 · 물때 제거</p></div><span class="tagpill">욕실</span></div></article><article class="pf" data-cat="bath"><button type="button" data-zoom="환풍구 덮개 · 그릴 · 곰팡이 · 먼지 제거" aria-label="환풍구 덮개 · 그릴 크게 보기"><img src="cases/case-20-vent-cover.jpg?v=261028" alt="환풍구 덮개 · 그릴 청소 전후 비교" width="1208" height="750" loading="lazy"></button><div class="bd"><div><h3>환풍구 덮개 · 그릴</h3><p>곰팡이 · 먼지 제거</p></div><span class="tagpill">욕실</span></div></article><article class="pf" data-cat="bath"><button type="button" data-zoom="환풍구 내부 · 팬 · 곰팡이 · 찌든 먼지 제거" aria-label="환풍구 내부 · 팬 크게 보기"><img src="cases/case-21-vent-fan.jpg?v=261028" alt="환풍구 내부 · 팬 청소 전후 비교" width="1208" height="750" loading="lazy"></button><div class="bd"><div><h3>환풍구 내부 · 팬</h3><p>곰팡이 · 찌든 먼지 제거</p></div><span class="tagpill">욕실</span></div></article><article class="pf" data-cat="kitchen"><button type="button" data-zoom="주방 수전 · 벽면 · 벽면 물때 · 검은 얼룩 제거" aria-label="주방 수전 · 벽면 크게 보기"><img src="cases/case-25-kitchen-faucet-wall.jpg?v=261028" alt="주방 수전 · 벽면 청소 전후 비교" width="1208" height="750" loading="lazy"></button><div class="bd"><div><h3>주방 수전 · 벽면</h3><p>벽면 물때 · 검은 얼룩 제거</p></div><span class="tagpill">주방</span></div></article><article class="pf" data-cat="kitchen"><button type="button" data-zoom="싱크볼 · 수전 · 물때 · 얼룩 제거, 스테인리스 광택 복원" aria-label="싱크볼 · 수전 크게 보기"><img src="cases/case-26-kitchen-sink-lizens.jpg?v=261028" alt="싱크볼 · 수전 청소 전후 비교" width="1208" height="750" loading="lazy"></button><div class="bd"><div><h3>싱크볼 · 수전</h3><p>물때 · 얼룩 제거, 스테인리스 광택 복원</p></div><span class="tagpill">주방</span></div></article><article class="pf" data-cat="kitchen"><button type="button" data-zoom="스테인리스 싱크볼 · 물자국 · 얼룩 제거, 광택 복원" aria-label="스테인리스 싱크볼 크게 보기"><img src="cases/case-12-kitchen-sink-2.jpg?v=261026" alt="스테인리스 싱크볼 청소 전후 비교" width="1208" height="750" loading="lazy"></button><div class="bd"><div><h3>스테인리스 싱크볼</h3><p>물자국 · 얼룩 제거, 광택 복원</p></div><span class="tagpill">주방</span></div></article><article class="pf" data-cat="kitchen"><button type="button" data-zoom="주방 싱크볼 · 배수구 · 음식물 찌꺼기 · 배수구 오염 제거" aria-label="주방 싱크볼 · 배수구 크게 보기"><img src="cases/case-17-kitchen-sink-3.jpg?v=261026" alt="주방 싱크볼 · 배수구 청소 전후 비교" width="1208" height="750" loading="lazy"></button><div class="bd"><div><h3>주방 싱크볼 · 배수구</h3><p>음식물 찌꺼기 · 배수구 오염 제거</p></div><span class="tagpill">주방</span></div></article><article class="pf" data-cat="kitchen"><button type="button" data-zoom="주방 싱크대 상판 · 싱크볼 · 상판 모서리 녹얼룩 · 싱크볼 얼룩 제거" aria-label="주방 싱크대 상판 · 싱크볼 크게 보기"><img src="cases/case-18-kitchen-sink-top.jpg?v=261026" alt="주방 싱크대 상판 · 싱크볼 청소 전후 비교" width="1208" height="750" loading="lazy"></button><div class="bd"><div><h3>주방 싱크대 상판 · 싱크볼</h3><p>상판 모서리 녹얼룩 · 싱크볼 얼룩 제거</p></div><span class="tagpill">주방</span></div></article><article class="pf" data-cat="floor"><button type="button" data-zoom="바닥 타일 · 발자국 · 검은 얼룩 제거" aria-label="바닥 타일 크게 보기"><img src="cases/case-28-floor-tile.jpg?v=261029" alt="바닥 타일 청소 전후 비교" width="1208" height="750" loading="lazy"></button><div class="bd"><div><h3>바닥 타일</h3><p>발자국 · 검은 얼룩 제거</p></div><span class="tagpill">바닥</span></div></article><article class="pf" data-cat="fridge"><button type="button" data-zoom="냉장고 내부 · 선반 · 야채칸 얼룩 제거" aria-label="냉장고 내부 크게 보기"><img src="cases/case-07-fridge.jpg?v=261026" alt="냉장고 내부 청소 전후 비교" width="1208" height="750" loading="lazy"></button><div class="bd"><div><h3>냉장고 내부</h3><p>선반 · 야채칸 얼룩 제거</p></div><span class="tagpill">냉장고</span></div></article><article class="pf" data-cat="fridge"><button type="button" data-zoom="냉장고 내부 · 서랍 · 얼룩 · 오염 제거" aria-label="냉장고 내부 · 서랍 크게 보기"><img src="cases/case-36-fridge-drawer.jpg?v=261104" alt="냉장고 내부 · 서랍 청소 전후 비교" width="1208" height="750" loading="lazy"></button><div class="bd"><div><h3>냉장고 내부 · 서랍</h3><p>얼룩 · 오염 제거</p></div><span class="tagpill">냉장고</span></div></article><article class="pf" data-cat="fridge"><button type="button" data-zoom="냉장고 하단 · 환풍구 · 먼지 · 흙 제거, 걸레받이까지" aria-label="냉장고 하단 · 환풍구 크게 보기"><img src="cases/case-38-fridge-bottom.jpg?v=261105" alt="냉장고 하단 환풍구 청소 전후 비교" width="1208" height="750" loading="lazy"></button><div class="bd"><div><h3>냉장고 하단 · 환풍구</h3><p>먼지 · 흙 제거, 걸레받이까지</p></div><span class="tagpill">냉장고</span></div></article><article class="pf" data-cat="balcony"><button type="button" data-zoom="베란다 통로 · 바닥 얼룩 · 먼지 제거" aria-label="베란다 통로 크게 보기"><img src="cases/case-09-balcony-hall.jpg?v=261026" alt="베란다 통로 청소 전후 비교" width="1208" height="750" loading="lazy"></button><div class="bd"><div><h3>베란다 통로</h3><p>바닥 얼룩 · 먼지 제거</p></div><span class="tagpill">베란다</span></div></article><article class="pf" data-cat="window"><button type="button" data-zoom="창문 레일 · 먼지 · 찌든때 제거, 레일 깨끗이" aria-label="창문 레일 크게 보기"><img src="cases/case-19-window-rail.jpg?v=261026" alt="창문 레일 청소 전후 비교" width="1208" height="750" loading="lazy"></button><div class="bd"><div><h3>창문 레일</h3><p>먼지 · 찌든때 제거, 레일 깨끗이</p></div><span class="tagpill">창틀</span></div></article><article class="pf" data-cat="window"><button type="button" data-zoom="샷시 창틀 · 틈새 · 먼지 · 오염 제거" aria-label="샷시 창틀 · 틈새 크게 보기"><img src="cases/case-34-window-frame.jpg?v=261104" alt="샷시 창틀 · 틈새 청소 전후 비교" width="1208" height="750" loading="lazy"></button><div class="bd"><div><h3>샷시 창틀 · 틈새</h3><p>먼지 · 오염 제거</p></div><span class="tagpill">창틀</span></div></article><article class="pf" data-cat="window"><button type="button" data-zoom="방충망 창틀 레일 · 먼지 · 물때 제거" aria-label="방충망 창틀 레일 크게 보기"><img src="cases/case-35-window-rail.jpg?v=261104" alt="방충망 창틀 레일 청소 전후 비교" width="1208" height="750" loading="lazy"></button><div class="bd"><div><h3>방충망 창틀 레일</h3><p>먼지 · 물때 제거</p></div><span class="tagpill">창틀</span></div></article><article class="pf" data-cat="cabinet"><button type="button" data-zoom="수납장 선반 · 자국 · 얼룩 제거" aria-label="수납장 선반 크게 보기"><img src="cases/case-31-shelf-residue.jpg?v=261101" alt="수납장 선반 청소 전후 비교" width="1208" height="750" loading="lazy"></button><div class="bd"><div><h3>수납장 선반</h3><p>자국 · 얼룩 제거</p></div><span class="tagpill">수납장</span></div></article><article class="pf" data-cat="laundry"><button type="button" data-zoom="세탁기 세제함 · 찌든때 · 곰팡이 제거" aria-label="세탁기 세제함 크게 보기"><img src="cases/case-37-washer-drawer.jpg?v=261104" alt="세탁기 세제함 청소 전후 비교" width="1208" height="750" loading="lazy"></button><div class="bd"><div><h3>세탁기 세제함</h3><p>찌든때 · 곰팡이 제거</p></div><span class="tagpill">세탁기</span></div></article></div><p class="pf-note">사진을 누르면 크게 볼 수 있습니다</p><div class="pf-cta"><p>이 사진처럼, 우리 집도 깨끗하게</p><div class="acts"><a class="btn btn-primary tel" href="tel:010-8209-6615">전화로 견적 받기</a><a class="btn btn-ghost sms" href="sms:010-8209-6615">문자로 사진 보내기</a><a class="btn btn-ghost" href="https://blog.naver.com/jungdoclean" target="_blank" rel="noopener">블로그에서 더 보기</a></div></div></div></section>
 </main>
 <section class="cta">
   <div class="wrap">
